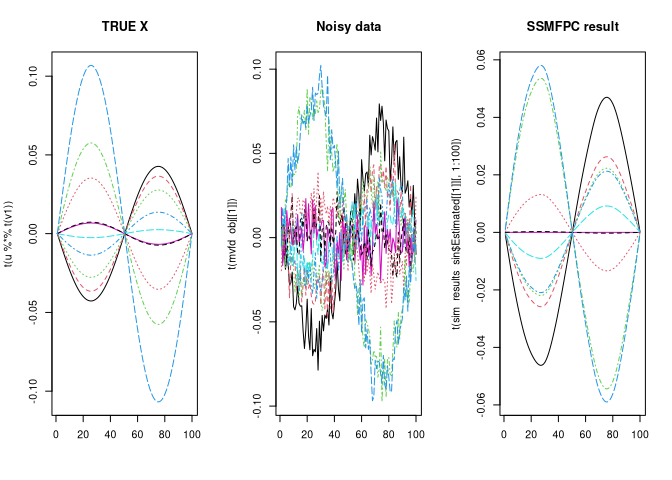
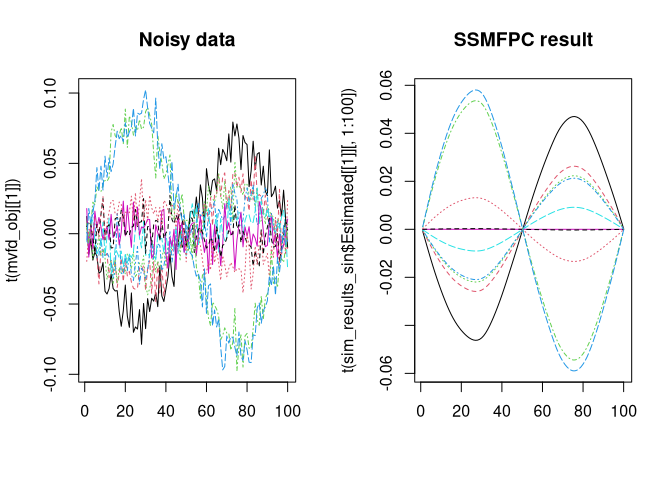
9:10

Changed region(s): [[0.0, 0.0312, 0.9688, 0.9375], [0.4688, 0.0312, 0.5625, 0.0625]]

diff --git a/README.md b/README.md
@@ -19,7 +19,7 @@ remotes::install_github("mobinapourmoshir/SSFPC")
     ## Downloading GitHub repo mobinapourmoshir/SSFPC@HEAD
 
     ## ── R CMD build ─────────────────────────────────────────────────────────────────
-    ##      checking for file ‘/tmp/RtmpxuoZro/remotes1bad1867b62bf5/mobinapourmoshir-SSFPC-4328dc6/DESCRIPTION’ ...  ✔  checking for file ‘/tmp/RtmpxuoZro/remotes1bad1867b62bf5/mobinapourmoshir-SSFPC-4328dc6/DESCRIPTION’
+    ##      checking for file ‘/tmp/Rtmpb4CX8T/remotes1baecf650c7465/mobinapourmoshir-SSFPC-2dca5a2/DESCRIPTION’ ...  ✔  checking for file ‘/tmp/Rtmpb4CX8T/remotes1baecf650c7465/mobinapourmoshir-SSFPC-2dca5a2/DESCRIPTION’
     ##   ─  preparing ‘SSFPC’:
     ##    checking DESCRIPTION meta-information ...  ✔  checking DESCRIPTION meta-information
     ##   ─  checking for LF line-endings in source and make files and shell scripts
@@ -77,17 +77,10 @@ sim_results_sin <- SSMFPCfunc(mvfd_obj = Simulated_data, argval = NULL, centerfn
 And the Plots:
 
 ``` r
-t1 <- "p"; t2 <- "l"; n <- 10; m <- 100; sig <- 0.01; alpha1 <- 0; alpha2 <- 0
-t <- seq(0,2*pi,length=m); 
-v1 <- sin(t); v1 <- v1/sqrt(sum(v1^2))
-v2 <- cos(t); v2 <- v2/sqrt(sum(v2^2))
-u <- sort(rnorm(n)); u <- u/sqrt(sum(u^2))
-
 PCss <- sim_results_sin[[1]]
 mvfd_obj = Simulated_data
-par(mfrow = c(1,3))
+par(mfrow = c(1,2))
 # Var 1
-matplot(t(u%*%t(v1)),type="l", main = "TRUE X")
 matplot(t(mvfd_obj[[1]]), type = 'l', main = "Noisy data")
 matplot(t(sim_results_sin$Estimated[[1]][,1:100]), type = 'l', main = "SSMFPC result")
 ```
@@ -96,7 +89,6 @@ matplot(t(sim_results_sin$Estimated[[1]][,1:100]), type = 'l', main = "SSMFPC re
 
 ``` r
 # Var 2
-matplot(t(u%*%t(v2)),type="l", main = "TRUE Y")
 matplot(t(mvfd_obj[[2]]), type = 'l', main = "Noisy data")
 matplot(t(sim_results_sin$Estimated[[1]][,101:200]), type = 'l', main = "SSMFPC result")
 ```
